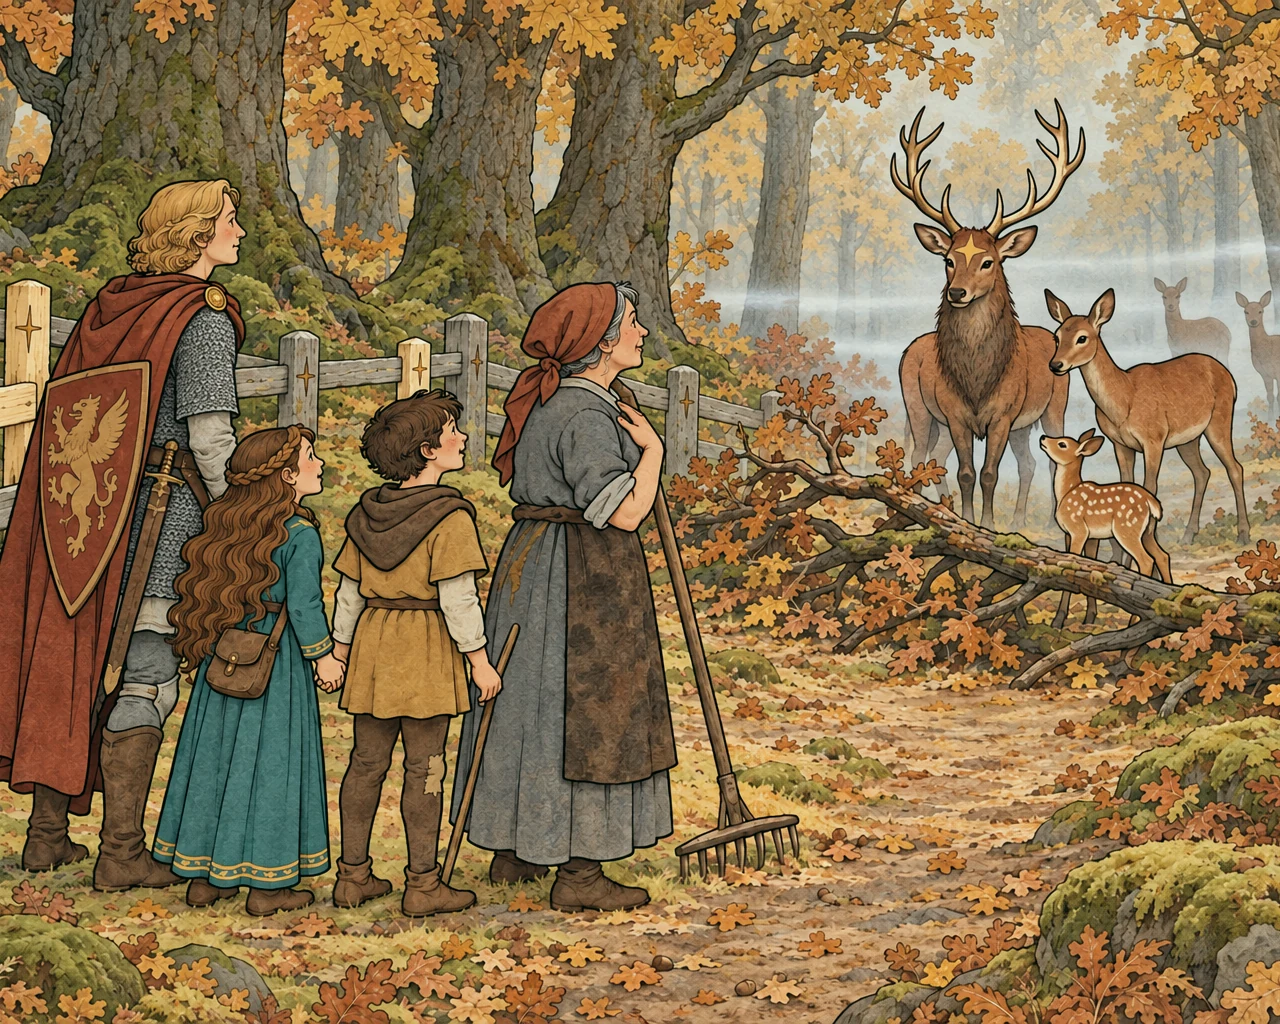
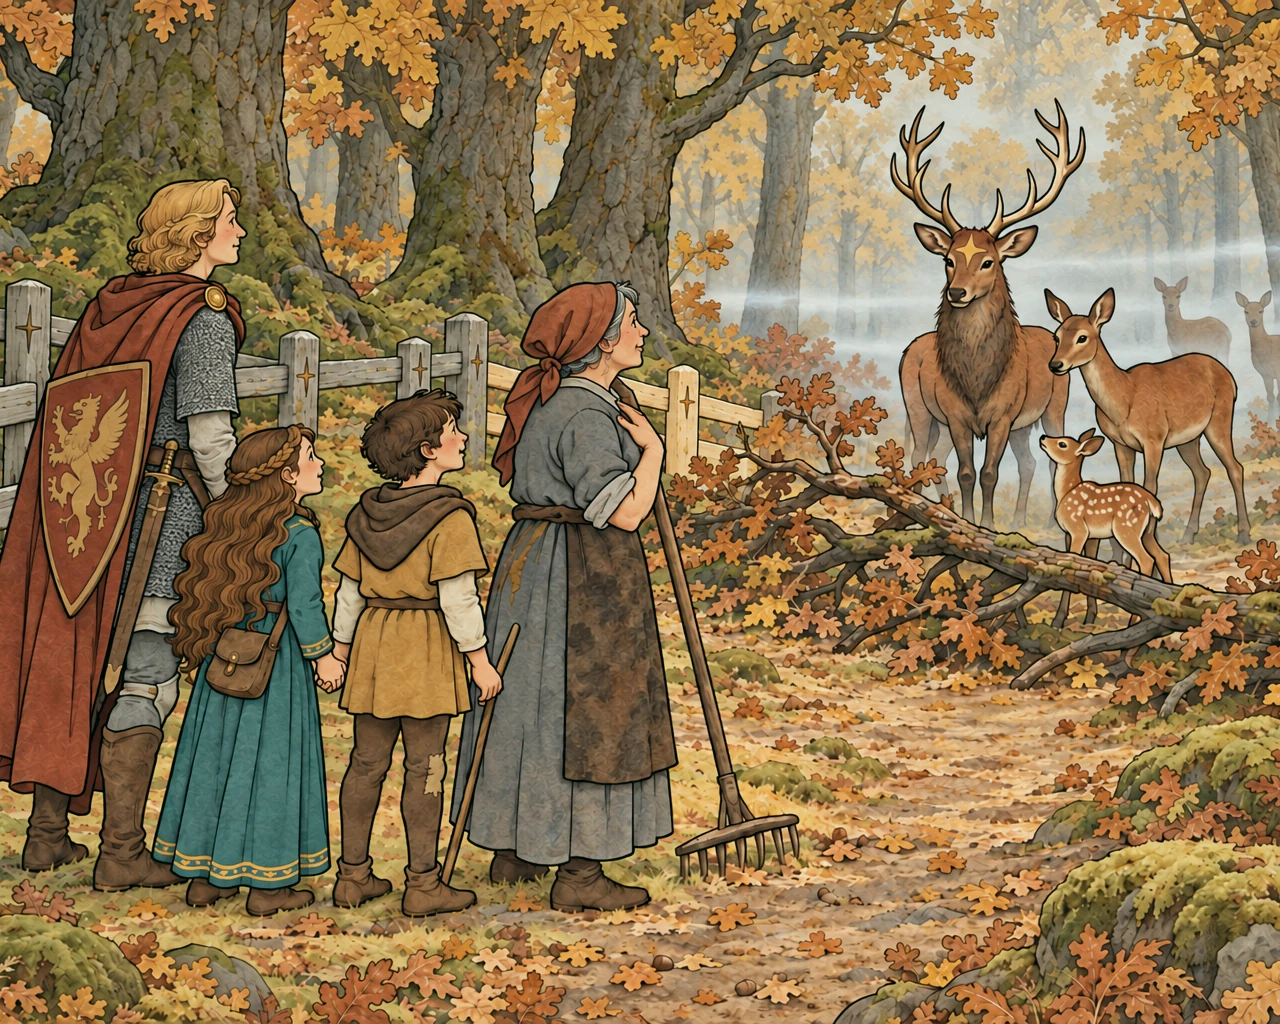
Forest tale: one new post on p8; Marcin carves the star with a chisel
The author asked for a single new fence post on p8, as on p7, and for the text to
match the picture: "dłutkiem" / "with a little chisel" instead of a knife. Prompts
for the second variants keep their approved sibling's camera and light.

diff --git a/stories.js b/stories.js
@@ -587,12 +587,12 @@ export const stories = [
             "give-sack": [
               "Marcin was silent for a long while. “Our grandparents made that promise, so I’ll keep it too,” he said, and ran to fetch the sack. Koniczynka carried it to the Corner on her back, and Dobrochna added acorns from her own store.",
               "“We’ll find something for your piglets too,” she promised. “Everyone in the village will give a handful of oats.” As they scattered the acorns under the old oaks, Marcin kept saying, “Hand in hand, step by step.”",
-              "Gustaw and Dobrochna put the fence back up. On the last post, Marcin used his knife to carve a new star, the sign of the oath made new."
+              "Gustaw and Dobrochna put the fence back up. On the last post, Marcin carved a new star with a little chisel, the sign of the oath made new."
             ],
             "gather-forest": [
               "Everyone spread out through the forest, but not too far, so they could still hear one another. They hunted for acorns in the moss and under the leaves, and the piglets sniffed hardest of all.",
               "Under the beech trees the piglets found beechnuts, little three-sided nuts, and gobbled them up. “Those are for them, and the acorns are for the deer,” said Marcin happily. “Hand in hand, step by step,” he kept saying as they carried full handfuls to the Corner.",
-              "Gustaw and Dobrochna put the fence back up. On the last post, Marcin used his knife to carve a new star, the sign of the oath made new."
+              "Gustaw and Dobrochna put the fence back up. On the last post, Marcin carved a new star with a little chisel, the sign of the oath made new."
             ]
           }
         },

diff --git a/locales.js b/locales.js
@@ -565,12 +565,12 @@ export const storyTranslations = {
               "give-sack": [
                 "Marcin długo milczał. „Obiecali to nasi dziadkowie, to i ja dotrzymam” – powiedział i pobiegł po worek. Koniczynka zaniosła go na grzbiecie do Kąta, a Dobrochna dosypała żołędzi ze swojego zapasu.",
                 "„Twoim prosiaczkom też coś znajdziemy” – obiecała. „We wsi każdy da garść owsa”. Kiedy rozsypywali żołędzie pod starymi dębami, Marcin powtarzał: „Ręka w rękę, krok za krokiem”.",
-                "Gustaw z Dobrochną postawili płot na nowo. Na ostatnim słupku Marcin wyciął nożykiem nową gwiazdkę, znak odnowionej przysięgi."
+                "Gustaw z Dobrochną postawili płot na nowo. Na ostatnim słupku Marcin wyciął dłutkiem nową gwiazdkę, znak odnowionej przysięgi."
               ],
               "gather-forest": [
                 "Wszyscy rozeszli się po lesie, ale nie za daleko, żeby słyszeć się nawzajem. Szukali żołędzi w mchu i pod liśćmi, a prosiaczki węszyły najpilniej ze wszystkich.",
                 "Pod bukami prosiaczki znalazły bukiew, trójkątne orzeszki, i zajadały się nią z zapałem. „To dla nich, a żołędzie dla jeleni” – ucieszył się Marcin. „Ręka w rękę, krok za krokiem” – powtarzał, kiedy znosili pełne garście do Kąta.",
-                "Gustaw z Dobrochną postawili płot na nowo. Na ostatnim słupku Marcin wyciął nożykiem nową gwiazdkę, znak odnowionej przysięgi."
+                "Gustaw z Dobrochną postawili płot na nowo. Na ostatnim słupku Marcin wyciął dłutkiem nową gwiazdkę, znak odnowionej przysięgi."
               ]
             }
           },

diff --git a/prototypes/prompts/_build_forest.py b/prototypes/prompts/_build_forest.py
@@ -123,7 +123,7 @@ P7_CAMERA = ("CAMERA: eye level, INSIDE the Oak Corner on its moss, looking SOUT
 for var, desc, who in [
     ("give-sack", "Koniczynka stands at the left with Marcin's open hemp sack slung across her back over the red caparison; Oliwia scoops acorns from it in her two hands and scatters them over the rail onto the moss inside; Dobrochna tips a small basket of her own acorns over the rail beside her. In the centre Gustaw fits a fresh pale rail into place. At the right Marcin kneels facing the NEW PALE POST, his left hand on the post and the edge of a small wood chisel set against its face near the top, where a four-pointed star is HALF-CARVED (only two of its four points cut so far, fresh pale chips on the ground); his tongue between his teeth, proud. The chisel touches the post; he holds nothing else.",
      ["mare", "oliwia", "dobrochna", "gustaw", "marcin", "piglets"]),
-    ("gather-forest", "Everyone has gathered acorns from the whole forest: Oliwia pours acorns over the rail from the flap of her satchel, Dobrochna from her gathered-up apron; the three piglets nose acorns out of the leaves by the fence; Koniczynka stands at the left without a load. In the centre Gustaw fits a fresh pale rail into place. At the right Marcin kneels at the NEW PALE POST and carves a four-pointed star near its top with a small wood chisel, proud.",
+    ("gather-forest", "Everyone has gathered acorns from the whole forest: Oliwia pours acorns over the rail from the flap of her satchel, Dobrochna from her gathered-up apron; the three piglets nose acorns out of the leaves by the fence; Koniczynka stands at the left without a load. In the centre Gustaw fits a fresh pale rail into place. At the right Marcin kneels facing the NEW PALE POST, his left hand on the post and the edge of a small wood chisel set against its face near the top, where a four-pointed star is HALF-CARVED (only two of its four points cut so far, fresh pale chips on the ground), proud. The chisel touches the post; he holds nothing else.",
      ["mare", "oliwia", "dobrochna", "gustaw", "marcin", "piglets"]),
 ]:
     page(f"fo-p7-{var}", "plate", "morning", who, ["corner"], ["mended"],
@@ -300,6 +300,22 @@ mist_first("fo-p6", "fo-p6b")
 # pages with a "Did you know" note (5, 7, 9) are 5:4 plates: new takes, not fixes of the portrait first takes
 m.REVISION["fo-p7-give-sack"] = "fo-p7-give-sackc"  # b: Marcin whittled in his hands, star already cut; sunny orange
 m.REVISION["fo-p9-make-way"] = "fo-p9-make-wayd"  # b: stag beside children; c: one long row, too wide
+
+
+# 2026-10-31 author: p8 shows ONE new pale post, as on p7 (fo-p8b had two). Fix from fo-p8b.
+fix("fo-p8", "fo-p8c", "camera, the four people, their poses and faces, the stag, the doe, the fawn, the two faint hinds, the fallen branch, the trail, the mist bands, the oaks, the light and colours, the old grey fence posts and the rails",
+    "the fence has exactly ONE new pale post with a carved star (the one nearest the trail, where the snapped post stood); every other post is an OLD GREY weathered post with its old small star.",
+    "Exactly one new pale post; every other post old and grey.", "no second pale post")
+
+# Second variants (author approved the first variants 2026-10-31): each keeps its approved sibling's camera,
+# place, light and colours (the sibling's take is the composition reference) and changes only the scene.
+SIBLING = "the people and animals and what they do, exactly as described in SCENE above."
+mist_first("fo-p3-call-back", "fo-p3-call-back")
+fix("fo-p3-call-back", "fo-p3-call-back", "camera, the two framing oak trunks, the broken fence with its star posts and fallen rails, the empty cups, Oliwia kneeling with the cup and her pose, Gustaw, Dobrochna and Koniczynka outside the fence, the mist, light and colours", SIBLING)
+mist_first("fo-p5-show-tracks", "fo-p5-show-tracks")
+fix("fo-p5-show-tracks", "fo-p5-show-tracks", "camera, the Corner's oaks and fence, Gustaw setting the star post upright, Dobrochna's hand on Marcin's shoulder, the snapped stump and fallen rails, the mist, light and colours", SIBLING)
+fix("fo-p7-gather-forest", "fo-p7-gather-forest", "camera, the fence with the new pale rails and the new pale post, Gustaw fitting the rail, Marcin kneeling and carving the half-cut star with the chisel, Dobrochna and Oliwia at the rail, Koniczynka at the left, the acorns on the moss, the light and colours", SIBLING + " Koniczynka carries NO sack.", neg="no sack; no basket")
+fix("fo-p9-help-fawn", "fo-p9-help-fawn", "camera, the curving path, the stag and its pose, the group of people following far behind it and their poses, the mended Corner in the background, the parting mist, light and colours", SIBLING + " The doe and the fawn walk just behind the stag, between it and the people, with an empty stretch of path before the children.")
 
 
 if __name__ == "__main__":
